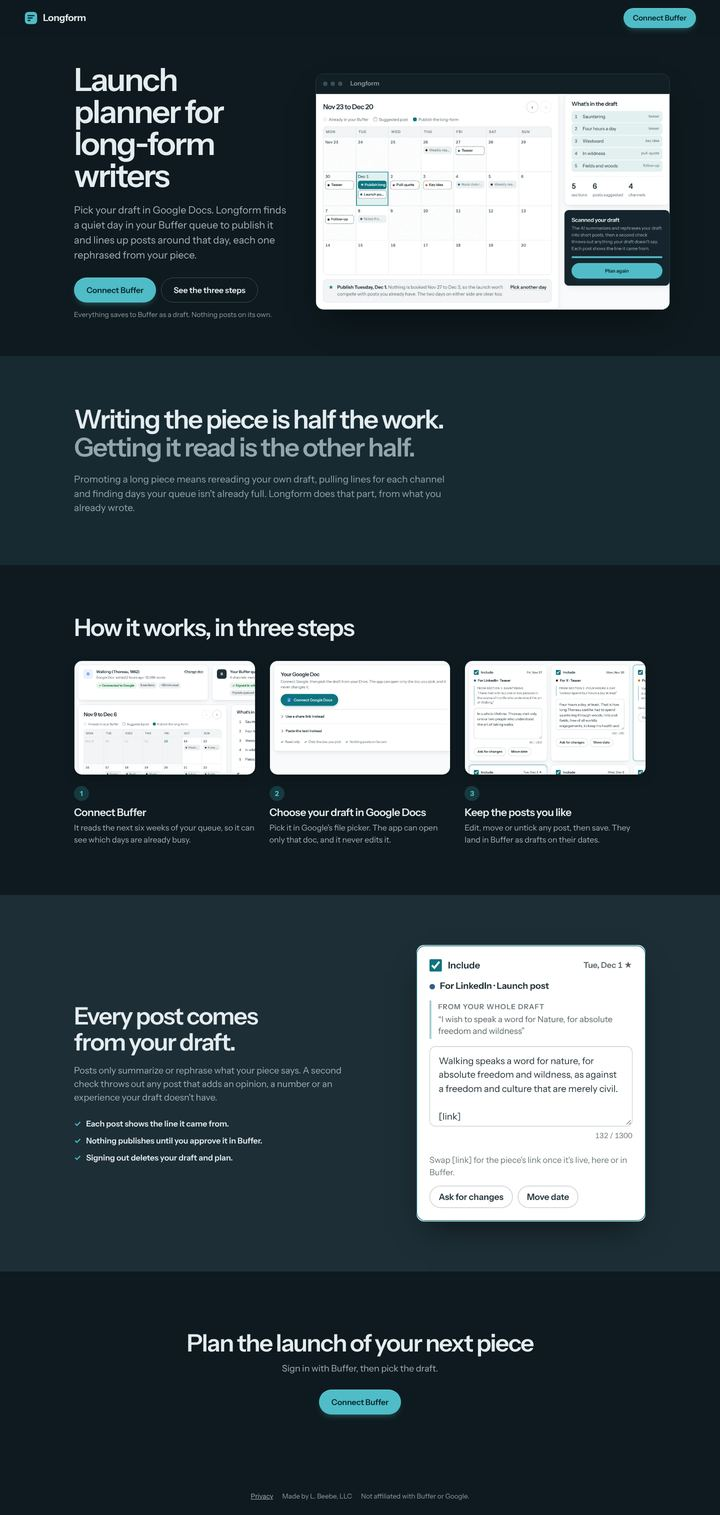
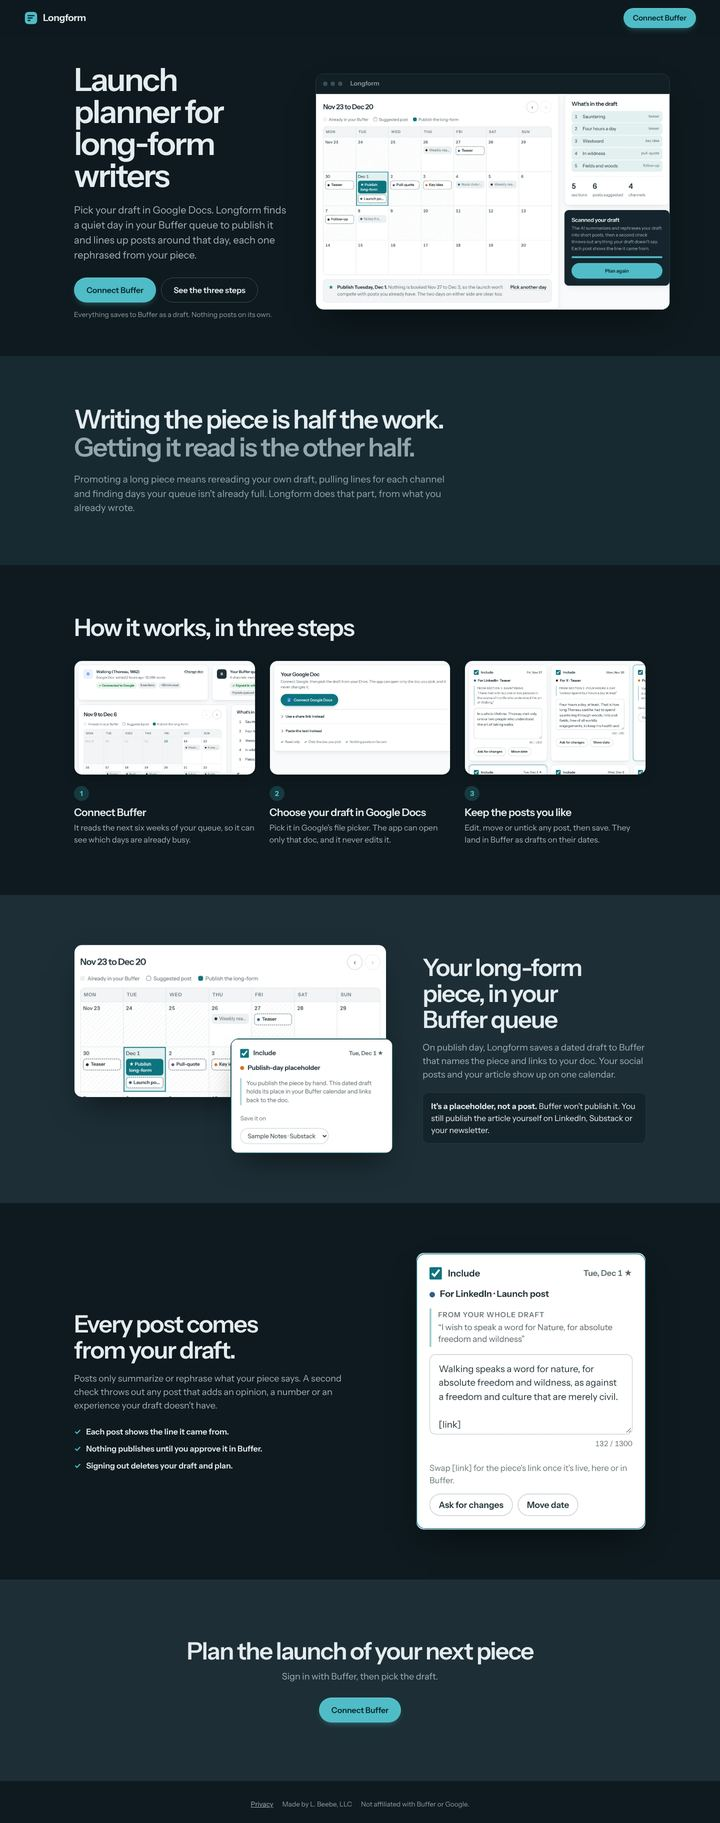
Landing: show the long-form piece in the Buffer queue as a placeholder
Adds a section with real screens of the publish-day placeholder and the
calendar, and says plainly that Buffer won't publish it. The publish chip
now wraps instead of cutting off.

Claude-Session: https://claude.ai/code/session_01PBNbxyUH2DR6H4t9y3axAT

diff --git a/public/app.css b/public/app.css
@@ -146,7 +146,7 @@ button.day.pickable:hover{box-shadow:inset 0 0 0 2px var(--accent)}
 .ev.s{border:1.5px dashed var(--ink);background:var(--surface);font-weight:600}
 .ev.s.done{border-style:solid;border-color:var(--good)}
 .ev.s.off{opacity:.45}
-.ev.p{background:var(--accent);color:var(--accent-ink);font-weight:650;padding:5px 7px}
+.ev.p{background:var(--accent);color:var(--accent-ink);font-weight:650;padding:5px 7px;white-space:normal}
 .ev.more{color:var(--faint);padding:0 6px}
 button.ev{font:inherit;font-size:11.5px;text-align:left;width:100%;cursor:pointer;color:inherit;transition:background .12s,transform .12s}
 button.ev.s:hover{background:var(--tint);transform:translateY(-1px)}
@@ -254,14 +254,22 @@ button.ev.s:hover{background:var(--tint);transform:translateY(-1px)}
 .l-steps .num{margin-top:22px;width:30px;height:30px;border-radius:50%;display:grid;place-items:center;background:var(--tint);color:var(--accent);font-weight:700;font-size:14px}
 .l-steps h3{font-size:21px;margin-top:12px;letter-spacing:-.025em}
 .l-steps p{color:var(--muted);margin-top:6px;font-size:16px;max-width:36ch}
-.l-own{background:var(--raised);padding:clamp(64px,11vh,120px) 0}
+.l-own{padding:clamp(64px,11vh,120px) 0}
 .l-own-grid{display:grid;grid-template-columns:minmax(0,1fr) minmax(0,1fr);gap:clamp(28px,5vw,80px);align-items:center}
 .l-own p{color:var(--muted);font-size:18px;margin-top:18px;max-width:46ch}
 .l-facts{list-style:none;padding:0;margin-top:26px;display:flex;flex-direction:column;gap:10px}
 .l-facts li{display:flex;gap:10px;font-weight:600;font-size:16px}
 .l-facts li::before{content:"✓";color:var(--accent);font-weight:700}
 .l-own .frame{max-width:460px;justify-self:end;width:100%}
-.l-close{padding:clamp(72px,13vh,140px) 0;text-align:center}
+.l-close{padding:clamp(72px,13vh,140px) 0;text-align:center;background:var(--raised)}
+.l-queue{background:var(--raised);padding:clamp(64px,11vh,120px) 0}
+.l-queue-grid{display:grid;grid-template-columns:minmax(0,7fr) minmax(0,5fr);gap:clamp(28px,5vw,80px);align-items:center}
+.l-queue h2{font-size:clamp(30px,3.6vw,48px);letter-spacing:-.04em}
+.l-queue p{color:var(--muted);font-size:18px;margin-top:18px;max-width:46ch}
+.l-queue .note{margin-top:22px;padding:14px 16px;border-radius:12px;background:var(--surface);border:1px solid var(--border);font-size:16px;color:var(--ink);max-width:46ch}
+.l-queue .note b{font-weight:650}
+.l-stack{position:relative;padding-bottom:18%}
+.l-stack .frame:last-child{position:absolute;right:-2%;bottom:0;width:52%}
 .l-close p{color:var(--muted);font-size:18px;margin-top:12px}
 .l-close .btn{margin-top:28px}
 #l-banners .banner{max-width:34ch}
@@ -277,6 +285,9 @@ button.ev.s:hover{background:var(--tint);transform:translateY(-1px)}
   .l-steps .frame{aspect-ratio:auto}
   .l-own-grid{grid-template-columns:1fr}
   .l-own .frame{justify-self:start}
+  .l-queue-grid{grid-template-columns:1fr}
+  .l-stack .frame:last-child{right:0}
+  .l-queue-grid > div:first-child{order:2}
 }
 @media (max-width:900px){
   .sources{grid-template-columns:1fr}

diff --git a/src/page.ts b/src/page.ts
@@ -66,7 +66,8 @@ function landing(name: string, show: boolean): string {
 
 <section class="l-problem" aria-labelledby="l-problem-h">
   <div class="l-wrap">
-    <!-- VOICE: the problem statement. Replace with how you'd say it. -->
+    <!-- VOICE: the problem statement. Replace with how you'd say it. Ligaya named two problems:
+         promoting the piece, and not seeing long-form pieces in the Buffer queue (covered in .l-queue below). -->
     <h2 id="l-problem-h">Writing the piece is half the work. <span>Getting it read is the other half.</span></h2>
     <p>Promoting a long piece means rereading your own draft, pulling lines for each channel and finding days your queue isn't already full. ${n} does that part, from what you already wrote.</p>
   </div>
@@ -95,6 +96,20 @@ function landing(name: string, show: boolean): string {
         <p>Edit, move or untick any post, then save. They land in Buffer as drafts on their dates.</p>
       </li>
     </ol>
+  </div>
+</section>
+
+<section class="l-queue" aria-labelledby="l-queue-h">
+  <div class="l-wrap l-queue-grid">
+    <div class="l-stack">
+      <figure class="frame"><img src="/shots/pubweek.webp" width="1400" height="682" loading="lazy" alt="The planner calendar with the long-form piece starred on its publish day, between posts already in the Buffer queue and the suggested posts."></figure>
+      <figure class="frame"><img src="/shots/placeholder.webp" width="700" height="494" loading="lazy" alt="The publish-day placeholder card: a dated draft saved on a chosen Buffer channel that holds the piece's place and links back to the doc."></figure>
+    </div>
+    <div>
+      <h2 id="l-queue-h">Your long-form piece, in your Buffer queue</h2>
+      <p>On publish day, ${n} saves a dated draft to Buffer that names the piece and links to your doc. Your social posts and your article show up on one calendar.</p>
+      <p class="note"><b>It's a placeholder, not a post.</b> Buffer won't publish it. You still publish the article yourself on LinkedIn, Substack or your newsletter.</p>
+    </div>
   </div>
 </section>
 

diff --git a/src/static.ts b/src/static.ts
@@ -19,6 +19,10 @@ import stepDoc from "../public/shots/step-doc.webp";
 import stepPosts from "../public/shots/step-posts.webp";
 // @ts-ignore
 import post from "../public/shots/post.webp";
+// @ts-ignore
+import pubweek from "../public/shots/pubweek.webp";
+// @ts-ignore
+import placeholder from "../public/shots/placeholder.webp";
 
 type File = { body: string | ArrayBuffer; type: string; immutable?: boolean };
 const webp = (body: ArrayBuffer): File => ({ body, type: "image/webp", immutable: true });
@@ -34,4 +38,6 @@ export const STATIC: Record<string, File> = {
   "/shots/step-doc.webp": webp(stepDoc),
   "/shots/step-posts.webp": webp(stepPosts),
   "/shots/post.webp": webp(post),
+  "/shots/pubweek.webp": webp(pubweek),
+  "/shots/placeholder.webp": webp(placeholder),
 };
